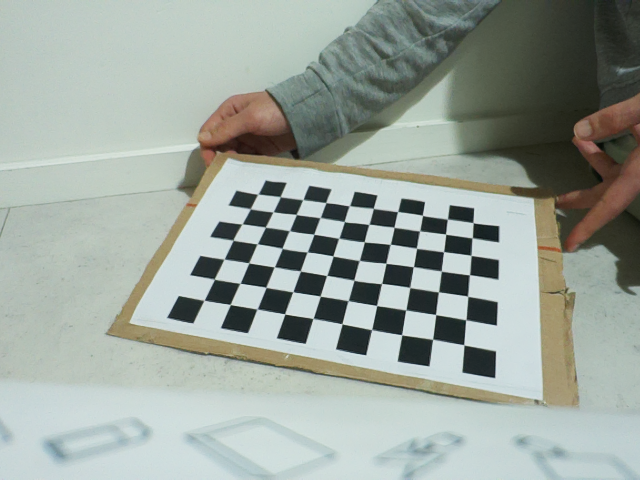
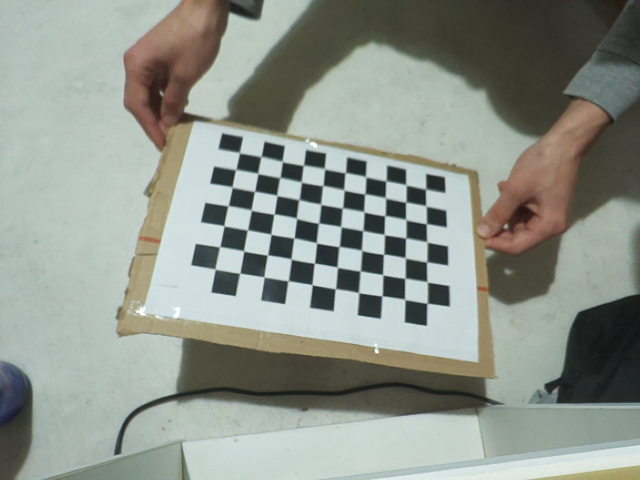
Taking pictures of the chess boeard and calibrating the camera for differrent resolutions

diff --git a/PositionCam.py b/PositionCam.py
@@ -5,30 +5,33 @@ from pyapriltags import Detector
 import numpy as np
 
 picam2 = Picamera2()
-WIDTH,HEIGH=3280,2464
+WIDTH,HEIGH = 640,480
 picam2.configure(picam2.create_preview_configuration({'size':(WIDTH,HEIGH)}))
 picam2.start()
 
 at_detector = Detector(families="tag36h11",nthreads=1,quad_sigma=0.0,refine_edges=1,\
 decode_sharpening=0.25,debug=0)
 
-fx=2.54535633e+03
-fy=2.54786131e+03
-cx=1.56751977e+03
-cy=1.27877378e+03
+fx = 1.63609203e+04
+fy = 1.64823329e+04
+cx = 1.98558384e+02
+cy = 3.06937200e+02
 
 #coefficients de distorsion de la camera
-dist=np.array([ 0.16388869,-0.21043407,0.00532856,-0.00619909,-0.15718788]) 
-mtx=np.array([[fx,0,cx],[0,fy,cy],[0,0,1]]) #matrice de la camera
+mtx = np.array([[fx, 0.00000000e+00, cx],
+ [0.00000000e+00, fy, cy],
+ [0.00000000e+00, 0.00000000e+00, 1.00000000e+00]])
+dist = np.array([[-4.80825453e+00, -6.12813064e+03 , 4.63986387e-01 , 2.08237158e-03
+, -5.28829533e+01]])
 
 #Positions des tags dans l'environnement
-listePoints3D = {2:(0.194,0,0),4:(0,0.235,0),15:(0.194,0.235,0), 0:(0,0,0) }
+listePoints3D = {0:(0,0,0)}
 
 def Detection_Tags():
     img=cv2.cvtColor(picam2.capture_array(),cv2.COLOR_BGR2GRAY) #prise d'une photo puis correction
     img_undistorded = cv2.undistort(img, mtx, dist, None, newCameraMatrix=mtx)
     #indication de la taille des tags, lancement de la detection
-    tags=at_detector.detect(img_undistorded,estimate_tag_pose=True,camera_params=[fx,fy,cx,cy],tag_size=0.173) 
+    tags=at_detector.detect(img_undistorded,estimate_tag_pose=True,camera_params=[fx,fy,cx,cy],tag_size=0.174) 
     return tags
 
 def calculAngles(R):
@@ -45,7 +48,6 @@ def calculAngles(R):
     return np.degrees(np.array([x, y, z]))
 
 
-ti=time.time()
 matrice=np.array([[-1,0,0],[0,1,0],[0,0,1]])
 def localisation():
     """Renvoie:
@@ -63,7 +65,7 @@ def localisation():
     angleMoyen=np.array([0,0,0],dtype='float64')
     
     for tag in tags:
-
+        
         angles.append(np.array(calculAngles(tag.pose_R)))
         
         pose=np.dot(np.transpose(tag.pose_R),tag.pose_t)
@@ -88,8 +90,7 @@ def localisation():
         return(positionMoyenne[0], positionMoyenne[1], positionMoyenne[2], angleMoyen[2])
         
     
-    tf=time.time()
-    print("temps",str(tf-ti),"secondes")
-    ti=tf
+    
 while True:
     print(localisation())
+    time.sleep(2)

diff --git a/EchequierPhotos.py b/EchequierPhotos.py
@@ -15,7 +15,7 @@ text_resolution = f"Choisir une résolution parmi les suivantes:\
     \n 5 : {Resolutions['5']} \
     \n Votre choix : "
 choix_resolution = input(text_resolution)
-assert choix_resolution in ['1','2','3','4'], "Choix impossible, choisir 1, 2, 3 ou 4"
+assert choix_resolution in ['1','2','3','4', '5'], "Choix impossible, choisir 1, 2, 3 ou 4"
 WIDTH, HEIGH = Resolutions[choix_resolution]
 
 # Demande du nombre de caméras utilisées.
@@ -46,15 +46,15 @@ if n_cam == 1:
     nb_im = 1
     while nb_im <= n:
         
+        print("be ready")
+        time.sleep(2)
+        
         nom0 = chemin0 + f"/{modele0}_cam0Echequier{nb_im}.png"  # nom de l'image
         cam0.capture_file(nom0) # Enregistrer l'image
 
         print(f"Images enregistrées: {nb_im}/{n}") # exemple: Images enregistrées 1/10
         
         nb_im += 1
-        time.sleep(2)
-        print("be ready")
-        time.sleep(2)
          #durée(en secondes) entre deux captures
     cam0.stop()
     cam0.close()
